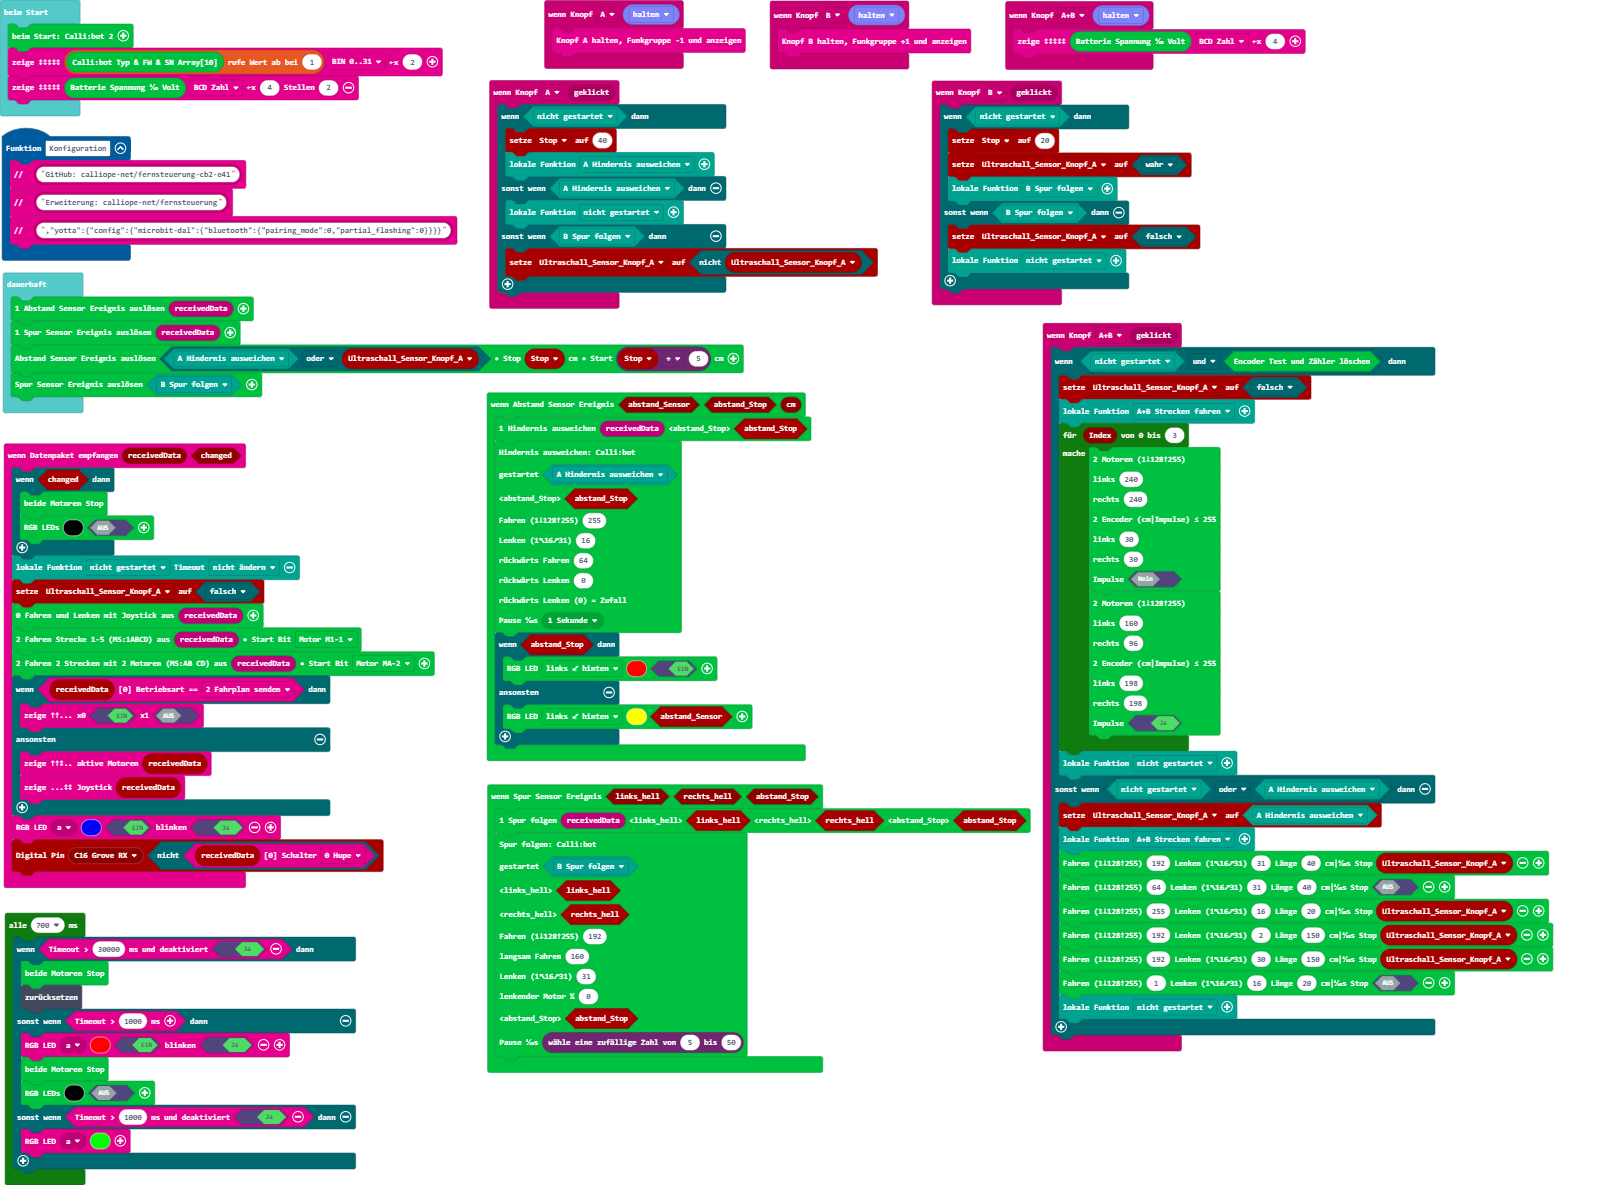
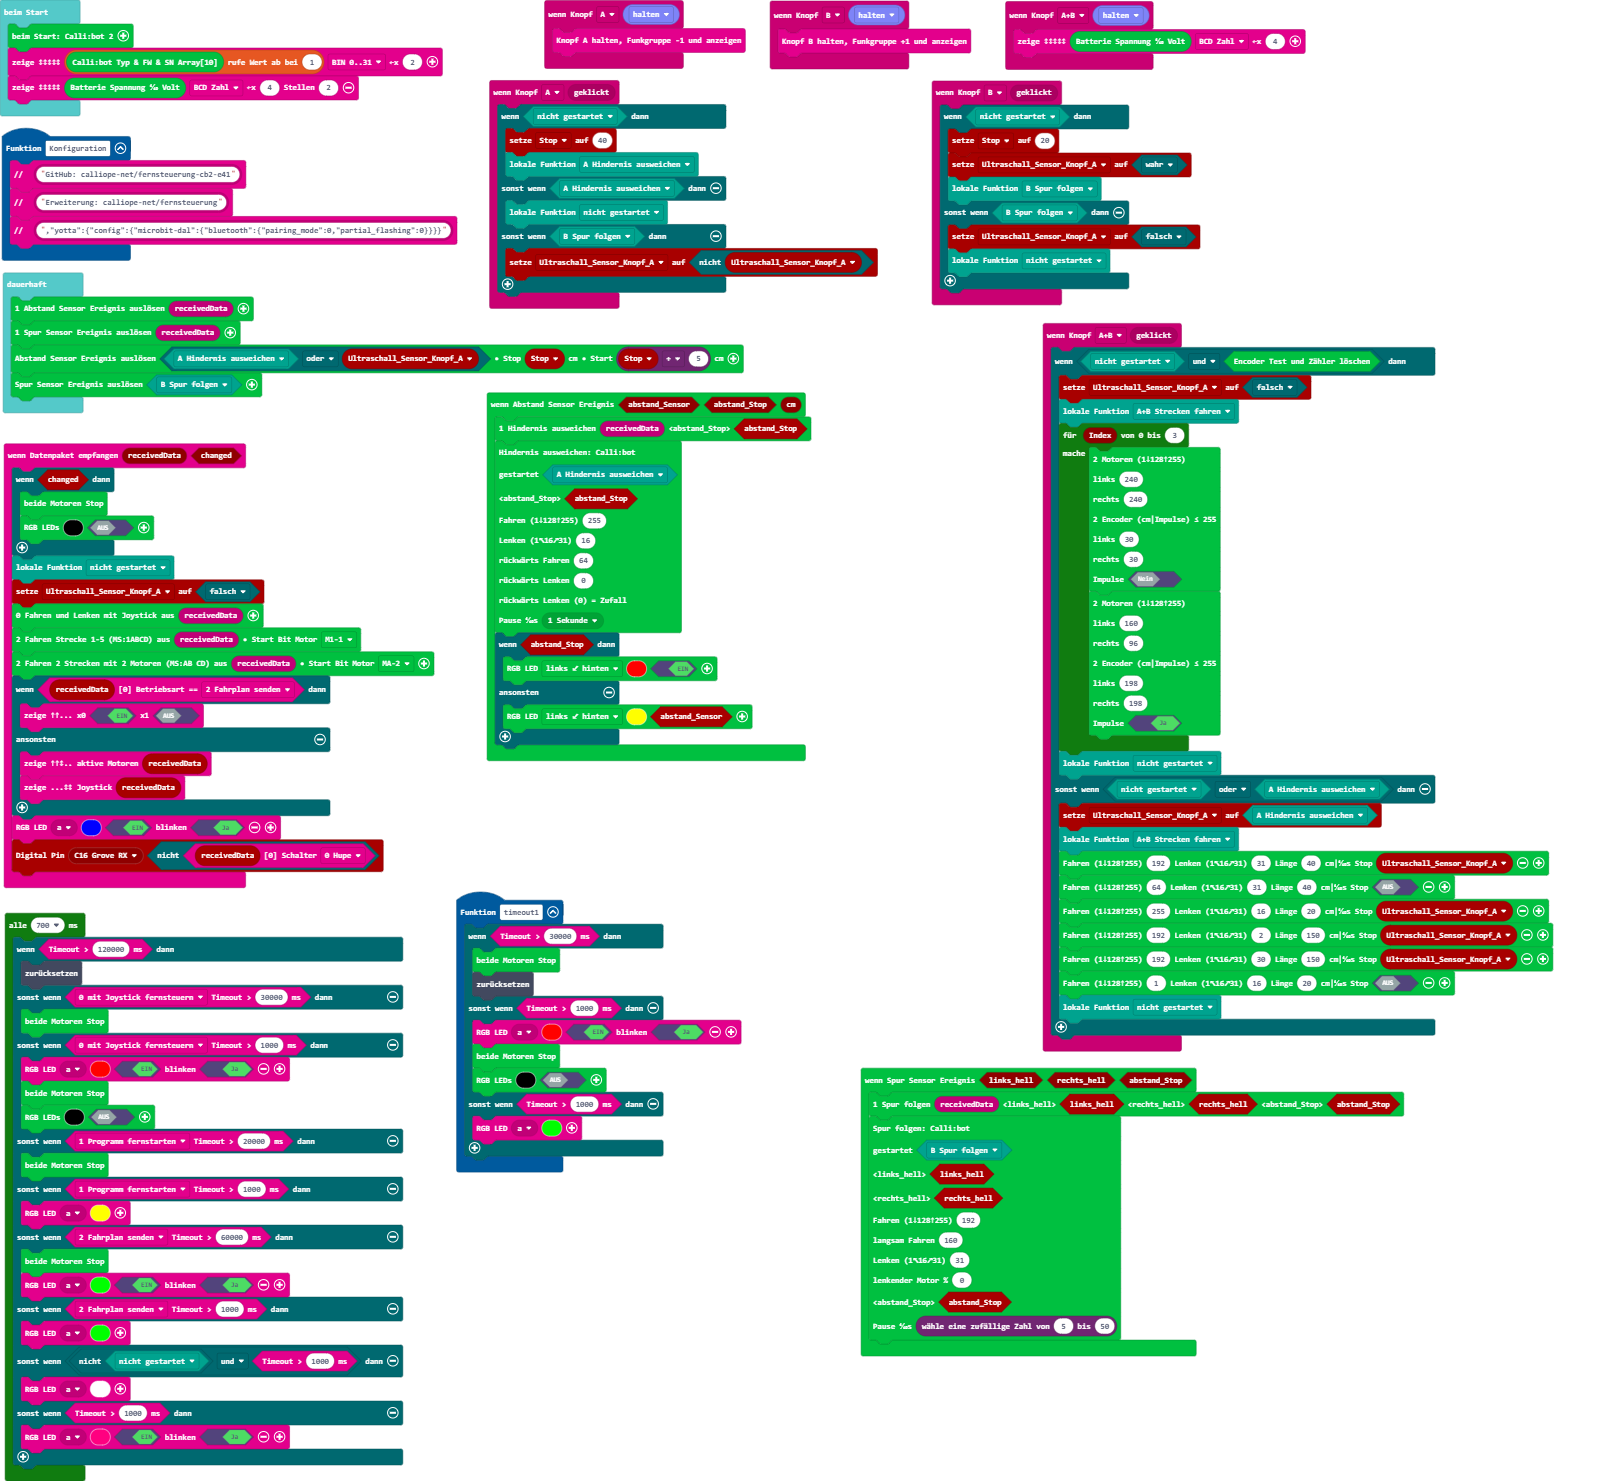
Aktualisiere pxt.json, main.blocks, main.ts

diff --git a/main.ts b/main.ts
@@ -71,6 +71,18 @@ input.onButtonEvent(Button.B, input.buttonEventClick(), function () {
         receiver.setFunktion(receiver.eFunktion.ng)
     }
 })
+function timeout1 () {
+    if (btf.timeout(30000)) {
+        cb2.writeMotorenStop()
+        control.reset()
+    } else if (btf.timeout(1000)) {
+        btf.setLedColors(btf.btf_RgbLed(btf.eRgbLed.a), 0xff0000, true, true)
+        cb2.writeMotorenStop()
+        cb2.writecb2RgbLeds(0x000000, false)
+    } else if (btf.timeout(1000)) {
+        btf.setLedColors(btf.btf_RgbLed(btf.eRgbLed.a), 0x00ff00)
+    }
+}
 input.onButtonEvent(Button.B, btf.buttonEventValue(ButtonEvent.Hold), function () {
     btf.buttonBhold()
 })
@@ -79,7 +91,7 @@ btf.onReceivedDataChanged(function (receivedData, changed) {
         cb2.writeMotorenStop()
         cb2.writecb2RgbLeds(0x000000, false)
     }
-    receiver.setFunktion(receiver.eFunktion.ng, receiver.eTimeoutDisable.nicht)
+    receiver.setFunktion(receiver.eFunktion.ng)
     Ultraschall_Sensor_Knopf_A = false
     cb2.fahreJoystick(btf.btf_receivedBuffer19())
     cb2.fahrplanBuffer5Strecken(btf.btf_receivedBuffer19(), btf.e3aktiviert.m1)
@@ -127,14 +139,26 @@ basic.forever(function () {
     cb2.raiseSpurEvent(receiver.isFunktion(receiver.eFunktion.spur_folgen))
 })
 loops.everyInterval(700, function () {
-    if (btf.timeout(30000, true)) {
-        cb2.writeMotorenStop()
+    if (btf.timeout(120000)) {
         control.reset()
-    } else if (btf.timeout(1000)) {
+    } else if (btf.timeoutReceivedBuffer(btf.e0Betriebsart.p0Fahren, 30000)) {
+        cb2.writeMotorenStop()
+    } else if (btf.timeoutReceivedBuffer(btf.e0Betriebsart.p0Fahren, 1000)) {
         btf.setLedColors(btf.btf_RgbLed(btf.eRgbLed.a), 0xff0000, true, true)
         cb2.writeMotorenStop()
         cb2.writecb2RgbLeds(0x000000, false)
-    } else if (btf.timeout(1000, true)) {
+    } else if (btf.timeoutReceivedBuffer(btf.e0Betriebsart.p1Lokal, 20000)) {
+        cb2.writeMotorenStop()
+    } else if (btf.timeoutReceivedBuffer(btf.e0Betriebsart.p1Lokal, 1000)) {
+        btf.setLedColors(btf.btf_RgbLed(btf.eRgbLed.a), 0xffff00)
+    } else if (btf.timeoutReceivedBuffer(btf.e0Betriebsart.p2Fahrplan, 60000)) {
+        cb2.writeMotorenStop()
+        btf.setLedColors(btf.btf_RgbLed(btf.eRgbLed.a), 0x00ff00, true, true)
+    } else if (btf.timeoutReceivedBuffer(btf.e0Betriebsart.p2Fahrplan, 1000)) {
         btf.setLedColors(btf.btf_RgbLed(btf.eRgbLed.a), 0x00ff00)
+    } else if (!(receiver.isFunktion(receiver.eFunktion.ng)) && btf.timeout(1000)) {
+        btf.setLedColors(btf.btf_RgbLed(btf.eRgbLed.a), 0xffffff)
+    } else if (btf.timeout(1000)) {
+        btf.setLedColors(btf.btf_RgbLed(btf.eRgbLed.a), 0xff0080, true, true)
     }
 })
